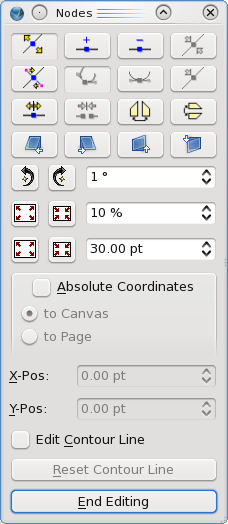
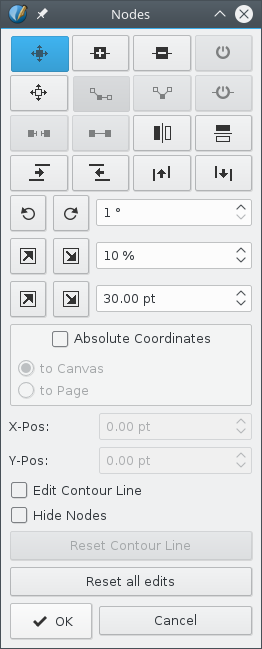
further manual updates - Drop Shadows, Editing Shapes
git-svn-id: https://scribus.net/svn/Scribus/trunk@21607 11d20701-8431-0410-a711-e3c959e3b870

Changed region(s): [[0.0, 0.0, 1.0, 1.0], [0.0614, 0.855, 0.1228, 0.8855], [0.7061, 0.8244, 0.7368, 0.855]]

diff --git a/Scribus/doc/en/EditingShapes.html b/Scribus/doc/en/EditingShapes.html
@@ -43,18 +43,16 @@
 <td align=center width=200><img src="images/shape_edit.png"></td>
 <td colspan="2"><p>Now we get to the main event here, editing a shape/frame with its nodes and control points. When you click the <b>Edit</b> button on the Shape tab, the <b>Nodes</b> dialog to the right pops up and your shape/frame is transformed something like what you see on the left, with these blue and magenta circles.</p>
 <p>Something to note at the outset is that generally where there is a sharp corner in a shape you only see the blue nodes, but where there is a smooth curve of some sort, these magenta control points are visible, sticking out like antennae from the node. Actually, all of these nodes have control points, but you don't see them when they are at the same position as the node.</p></td>
-
-</tr>
-<tr><td></td><td><img src="images/node_edit_close.png" ALIGN=right></td><td rowspan=2 valign="top"><img src="images/nodes_edit.png"></td>
-</tr>
-<tr><td colspan=2><p>As we begin to describe the usage of the shape edit dialog, let's use this numbering scheme to refer to the various buttons on the dialog to the far right. </p>
+</tr></table>
+<table cellpadding="3"><tr><td valign="top"><p>As we begin to describe the usage of the shape edit dialog, let's use this numbering scheme to refer to the various buttons on the dialog to the far right. </p>
 <p>When the dialog first comes up, button <b>1</b> will be selected, in which case you can move the blue nodes using the mouse. In addition to moving individual nodes, you can click-drag a line segment between nodes and move the segment along with its nodes. The segment retains its size, shape, and orientation &ndash; adjoining line segments do the adjusting. </p>
 <p>If you click button <b>5</b>, you can then move the magenta control points. Once you have clicked on a node or control point it turns red, and at this point, in addition to moving it with the mouse, the <b>X-Pos</b> and <b>Y-Pos</b> spinboxes become active and refer to this selected point. If <b>Absolute Coordinates</b> is <b><i>not</i></b> checked, then these numbers are relative to the upper left corner of the bounding box for the frame or shape (<i>see What is a Bounding Box? below</i>). Let's mention at this point that all of our editing steps here are Undo-able, i.e. can be undone with <b>Ctrl-Z</b> in case you change your mind.</p>
-<p>Button <b>2</b> allows for adding nodes, though they must be added somewhere along the line of the shape. Button <b>3</b> deletes the node you subsequently click on. The tooltip for button <b>4</b> says <i>Reset Control Points</i>, but it is not clear how to make this button active.</p>
+<p>Button <b>2</b> allows for adding nodes, though they must be added somewhere along the line of the shape. Button <b>3</b> deletes the node you subsequently click on. The tooltip for button <b>4</b> says <i>Reset Control Points</i>, which becomes active when a node is selected. This will reset control points of that node <i>when they have been changed</i>. If only a control point is selected, there will be no change.</p>
 <p>Button <b>6</b>, when clicked, allows for each individual control point to move independently. If button <b>7</b> is clicked, then the two control points at a node will arrange themselves on opposite side of a node and equidistant from it once either one is moved. This tends to produce a very smooth curved transition through the node. When a control point is selected, button <b>8</b> will be active and when clicked, resets the control point to its node's position.</p>
 <p>Button <b>9</b> will split the curve/shape when it is checked &ndash; click this button, then click anywhere along the line. It will appear that a node has been created, like using button <b>2</b>, but actually there are now 2 nodes at that position, so that if you move one, you will see the line is broken. Button <b>10</b> performs the opposite procedure, by joining a broken curve or shape (<i>and can also be used to make a closed figure out of a Bezier curve</i>).</p>
-<p>Finishing out these first 3 rows, the unnumbered buttons next to the one we've labeled 10 flip the shape horizontally or vertically, respectively.</td>
-</tr></table>
+<p>Finishing out these first 3 rows, the unnumbered buttons next to the one we've labeled 10 flip the shape horizontally or vertically, respectively.</td><td valign="top"><img src="images/node_edit_close.png"></td><td valign="top"><img src="images/nodes_edit.png"></td>
+</tr>
+</table>
 <h3>Skewing</h3>
 <table cellpadding=3><tr>
 <td><p>The first full row of buttons below the numbered ones are skewing operations. Each click on the button skews the shape in a small increment. Here we see the results of skewing using the 4 buttons, left to right, just like our images, each being clicked 10 times. Initially, the tops of all these shapes had the same Y-Pos.</p></td>

diff --git a/Scribus/doc/en/DropShadows.html b/Scribus/doc/en/DropShadows.html
@@ -10,9 +10,9 @@
 <h2>Drop Shadows</h2>
 <p>A new feature as of the 1.5.x versions of Scribus is Drop Shadows. Formerly, the only way to achieve what we might call true drop shadows was to export your image or text as graphics to a program such as Gimp, manipulate it there, then import to Scribus.</p>
 <p>There has been a shadow effect for text, which basically amounts to a duplicate of the glyph, offset slightly, with an assignable color and saturation. In this example, the color was Black with a saturation set to 30%.</p>
-<table width=100% cellpadding=5><tr>
-<td><img src="images/dropshadows1.png" ALT="Example of shadow text" ALIGN=left></td>
-    <td>    Notice the sharp edges of the shadow, and unfortunately, this is your only choice with this method.</td></tr>
+<table width=80%><tr>
+<td><img src="images/dropshadows1.png" ALT="Example of shadow text" ALIGN="center"></td>
+    <td align="left"><p>Notice the sharp edges of the shadow, and unfortunately, this is your only choice with this method.<p></td></tr>
 </table>
     
 <h2>The new method</h2>
